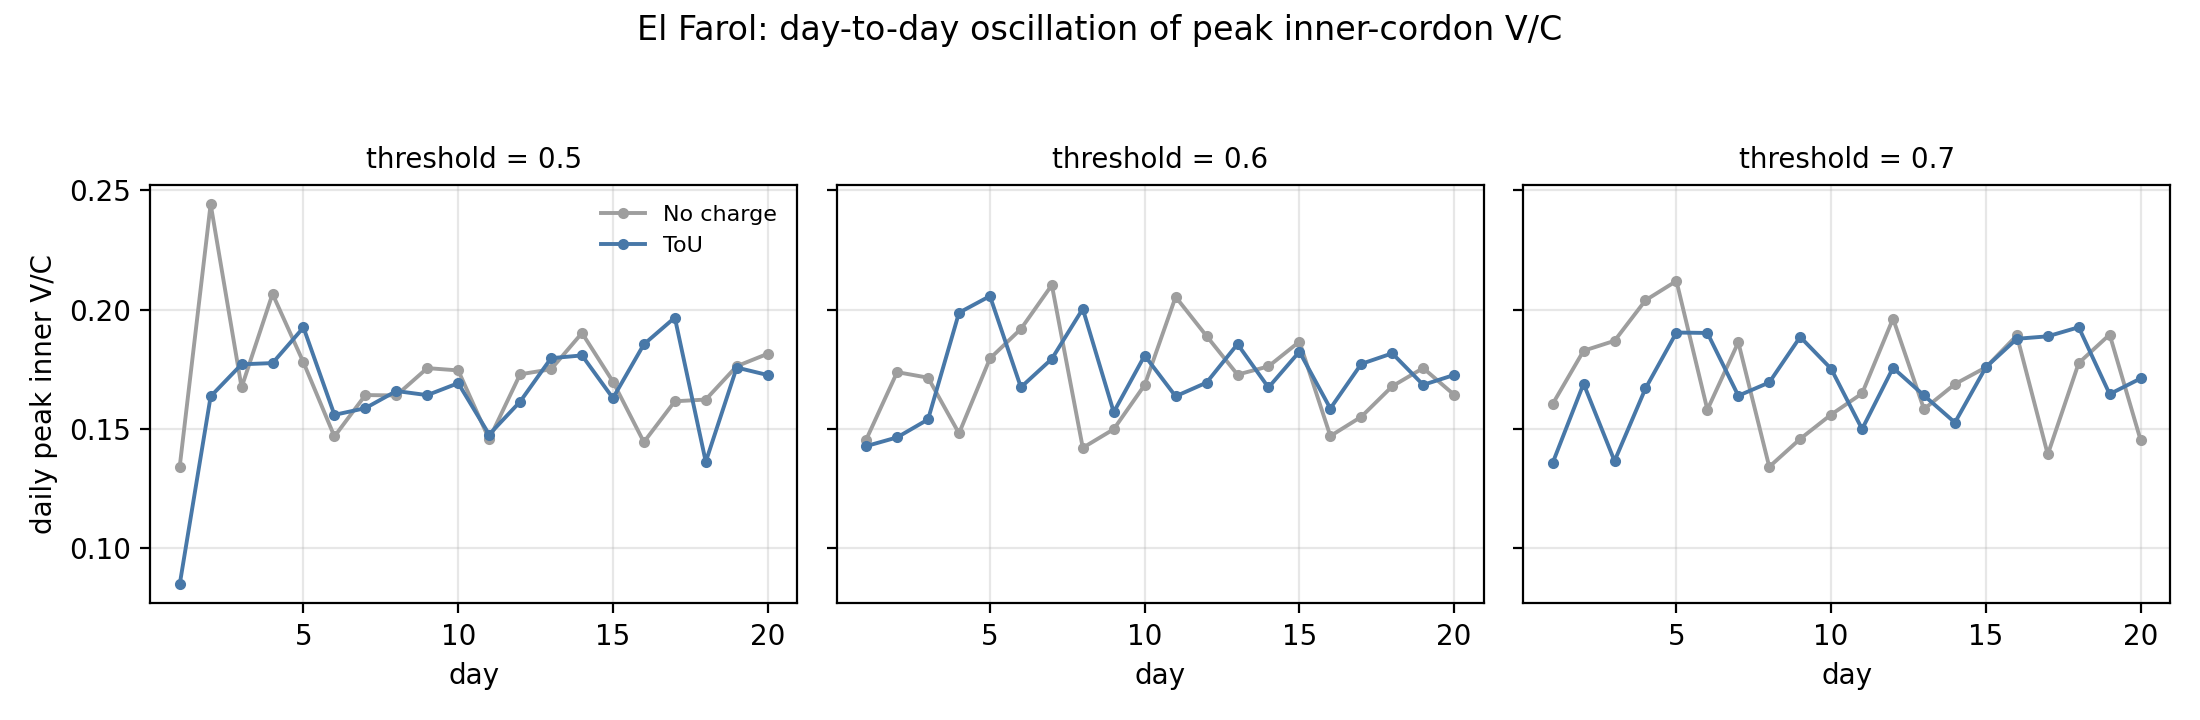
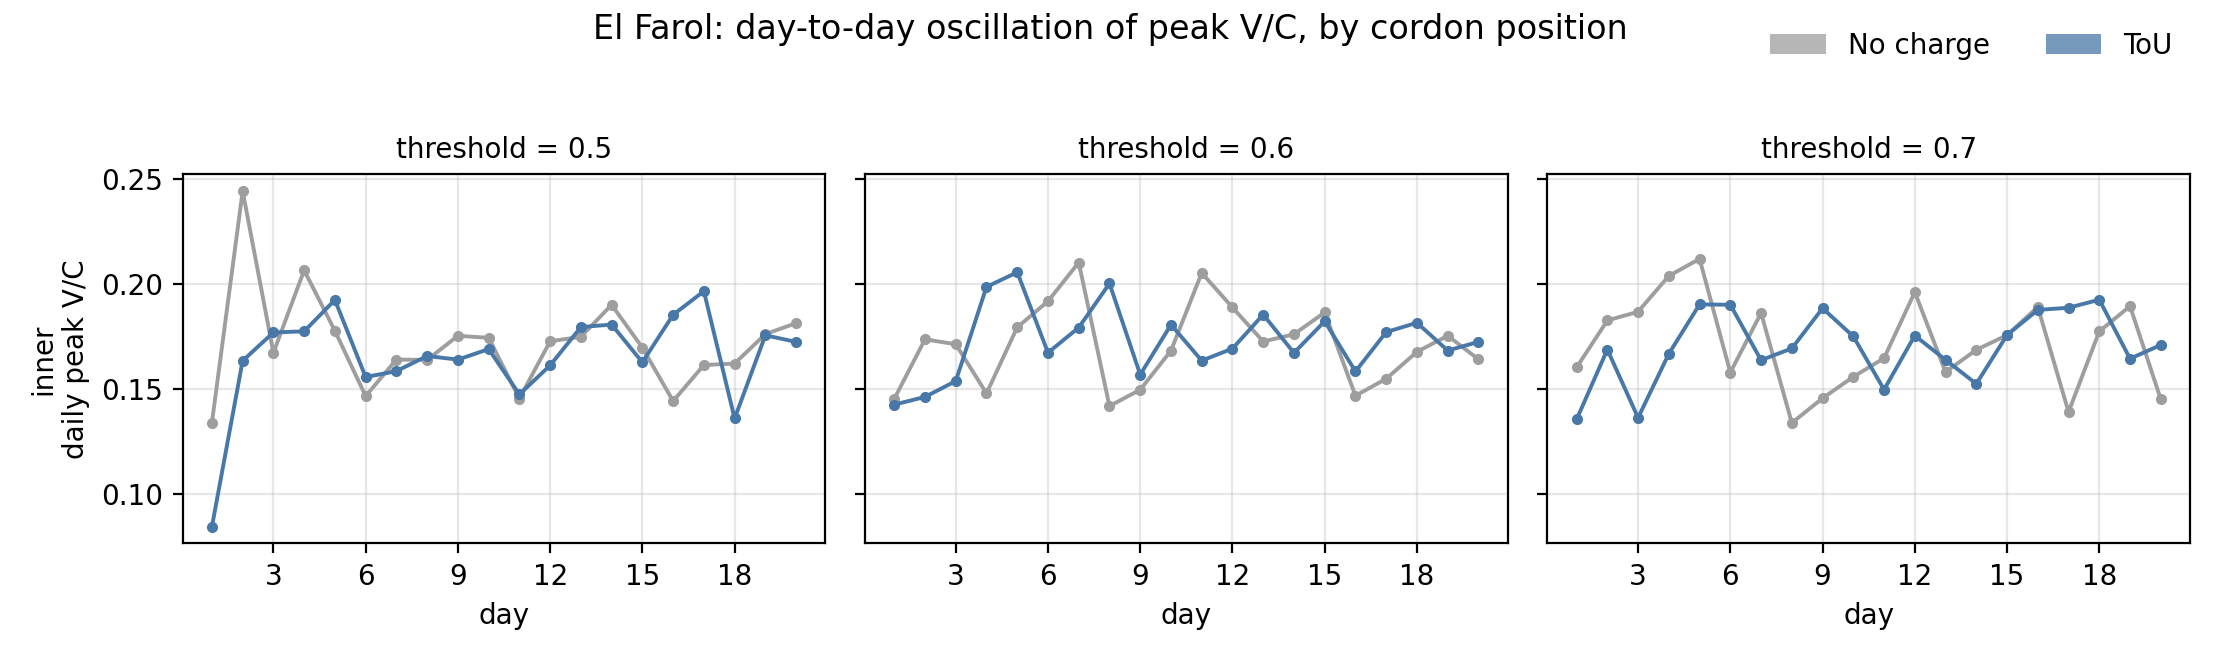
Plot the El Farol time series for all three cordon positions
The oscillation figure only ever showed inner V/C. It is now a grid: one row
per position (inner / boundary / peripheral), one column per threshold, so
whether the day-to-day swing exists at the boundary and periphery - not just
inside the cordon - is visible directly. Rows keep independent y-scales because
the boundary sits near 0.5 against ~0.1 for the other two, and a shared scale
would flatten the very oscillation the figure is for.

Legend moved to figure level (it was overlapping the data) and day ticks forced
to integers. On tables without the position metrics the figure falls back to a
single inner-only row and prints which positions were available.

diff --git a/netlogo/sensitivity_experiment/plot_sensitivity.py b/netlogo/sensitivity_experiment/plot_sensitivity.py
@@ -8,20 +8,23 @@ Writes output/figures/                  (override dir with SENS_FIGS)
   sensitivity_box_kfactor.png      group LoS E/F over the k-factor sweep
   sensitivity_reduction.png        ToU reduction by cordon position
   sensitivity_positions.png        peak V/C by position at each rule baseline
-  sensitivity_elfarol_timeseries.png  El Farol day-by-day oscillation
+  sensitivity_elfarol_timeseries.png  El Farol day-by-day oscillation,
+                                      one row per cordon position
 
 A box is one run's per-day values, paired No-Charge vs ToU, so the day-to-day
 spread the mean/SD summary hides stays visible.
 
-The two position figures need peak-vc-boundary / peak-vc-peripheral, which only
+The position breakdowns need peak-vc-boundary / peak-vc-peripheral, which only
 exist in tables written after the metric set was expanded (2026-07-25). Older
-tables are handled: those series are skipped and a note is printed.
+tables are handled: those series are skipped (the El Farol figure falls back to
+an inner-only single row) and a note is printed.
 """
 import csv, os
 from collections import defaultdict
 import matplotlib
 matplotlib.use("Agg")
 import matplotlib.pyplot as plt
+from matplotlib.ticker import MaxNLocator
 
 HERE = os.path.dirname(os.path.abspath(__file__))
 # Paths can be redirected (SENS_TABLES / SENS_FIGS) to run the figures against
@@ -237,26 +240,42 @@ else:
     print("(skip position-levels figure: no table has peak-vc-boundary yet)")
 
 # --- Figure 4: El Farol daily time series (oscillation made visible) --------
+# One row per cordon position, one column per threshold. Rows share a y-axis
+# but rows differ from each other by design: the boundary sits near 0.5 while
+# inner and peripheral sit near 0.1, so a single shared scale would flatten the
+# oscillation this figure exists to show.
 path = os.path.join(TABLES, "sensitivity-elfarol.csv")
 if os.path.exists(path):
-    series = daily_series(path, "el-farol-threshold", "peak-vc-inner")
-    params = sorted({p for p, _ in series}, key=float)
-    fig, axes = plt.subplots(1, len(params), figsize=(11, 3.6), sharey=True)
-    for ax, p in zip(axes, params):
-        for fee in FEE_ORDER:
-            vals = series.get((p, fee), [])
-            ax.plot(range(1, len(vals) + 1), vals, "o-", ms=3, lw=1.4,
-                    color=FEE_COLOR[fee], label=FEE_LABEL[fee])
-        ax.set_title(f"threshold = {p}", fontsize=10)
-        ax.set_xlabel("day")
-        ax.grid(alpha=0.3)
-    axes[0].set_ylabel("daily peak inner V/C")
-    axes[0].legend(frameon=False, fontsize=8)
-    fig.suptitle("El Farol: day-to-day oscillation of peak inner-cordon V/C")
-    fig.tight_layout(rect=(0, 0, 1, 0.93))
+    avail = [(m, lab) for m, lab, _ in POSITIONS if has_metric(path, m)]
+    params = sorted({p for p, _ in daily_series(path, "el-farol-threshold",
+                                                avail[0][0])}, key=float)
+    nrow, ncol = len(avail), len(params)
+    fig, axes = plt.subplots(nrow, ncol, figsize=(3.7 * ncol, 2.7 * nrow + 0.6),
+                             sharey="row", sharex=True, squeeze=False)
+    for i, (metric, lab) in enumerate(avail):
+        series = daily_series(path, "el-farol-threshold", metric)
+        for j, p in enumerate(params):
+            ax = axes[i][j]
+            for fee in FEE_ORDER:
+                vals = series.get((p, fee), [])
+                ax.plot(range(1, len(vals) + 1), vals, "o-", ms=3, lw=1.4,
+                        color=FEE_COLOR[fee], label=FEE_LABEL[fee])
+            if i == 0:
+                ax.set_title(f"threshold = {p}", fontsize=10)
+            if i == nrow - 1:
+                ax.set_xlabel("day")
+            ax.grid(alpha=0.3)
+            ax.xaxis.set_major_locator(MaxNLocator(integer=True))
+        axes[i][0].set_ylabel(f"{lab}\ndaily peak V/C")
+    fig.legend(handles=legend_handles(), loc="upper right", ncol=2,
+               frameon=False, bbox_to_anchor=(0.99, 0.99))
+    fig.suptitle("El Farol: day-to-day oscillation of peak V/C, by cordon position")
+    fig.tight_layout(rect=(0, 0, 1, 0.94))
     out = os.path.join(FIGS, "sensitivity_elfarol_timeseries.png")
     fig.savefig(out, dpi=200)
     print("wrote", out)
+    if len(avail) < len(POSITIONS):
+        print(f"  note: only {[l for _, l in avail]} available in this table")
     plt.close(fig)
 else:
     print(f"(skip El Farol time-series figure: {path} not found)")

diff --git a/netlogo/LOS_IMPLEMENTATION.md b/netlogo/LOS_IMPLEMENTATION.md
@@ -135,7 +135,12 @@ calibration.
   No-Charge vs ToU, at each rule's baseline parameter. Shows the levels behind
   the percentages (a large % off the small inner base can look bigger than it
   is next to the boundary's ~0.5).
-- `output/figures/sensitivity_elfarol_timeseries.png` — El Farol daily series.
+- `output/figures/sensitivity_elfarol_timeseries.png` — El Farol daily series,
+  one row per cordon position (inner / boundary / peripheral) x one column per
+  threshold. Rows keep separate y-scales on purpose: the boundary sits near 0.5
+  while inner and peripheral sit near 0.1, and a shared scale would flatten the
+  oscillation the figure exists to show. Falls back to an inner-only single row
+  on pre-2026-07-25 tables.
 
 The two position figures need `peak-vc-boundary` / `peak-vc-peripheral` and so
 stay empty until a run made after 2026-07-25 exists; `plot_sensitivity.py`
